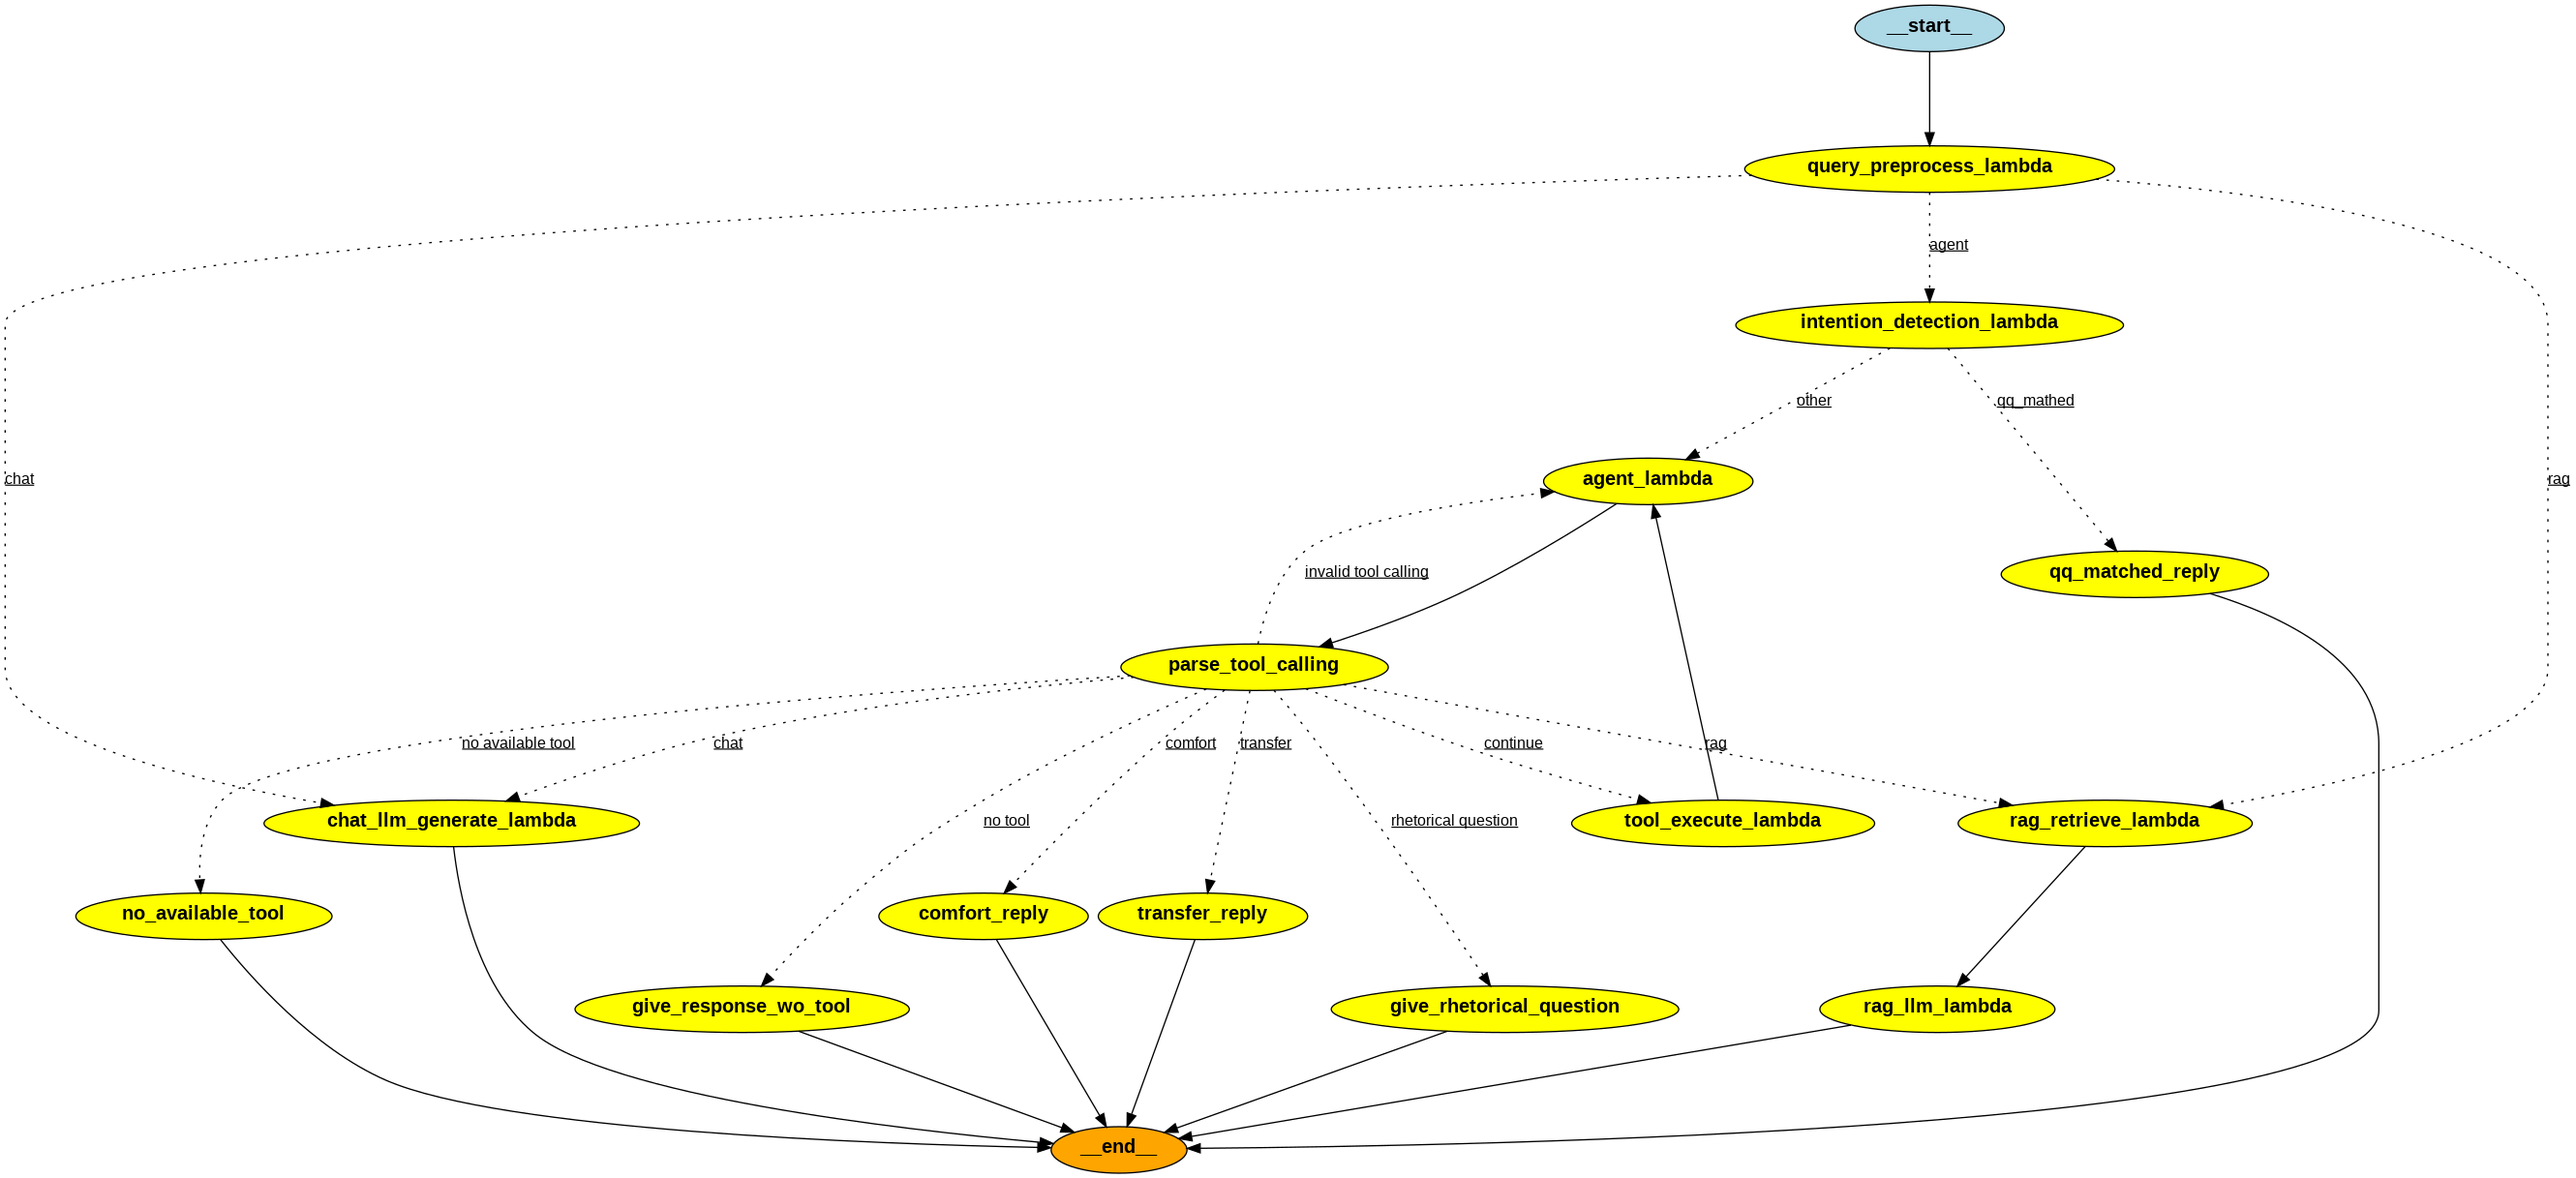
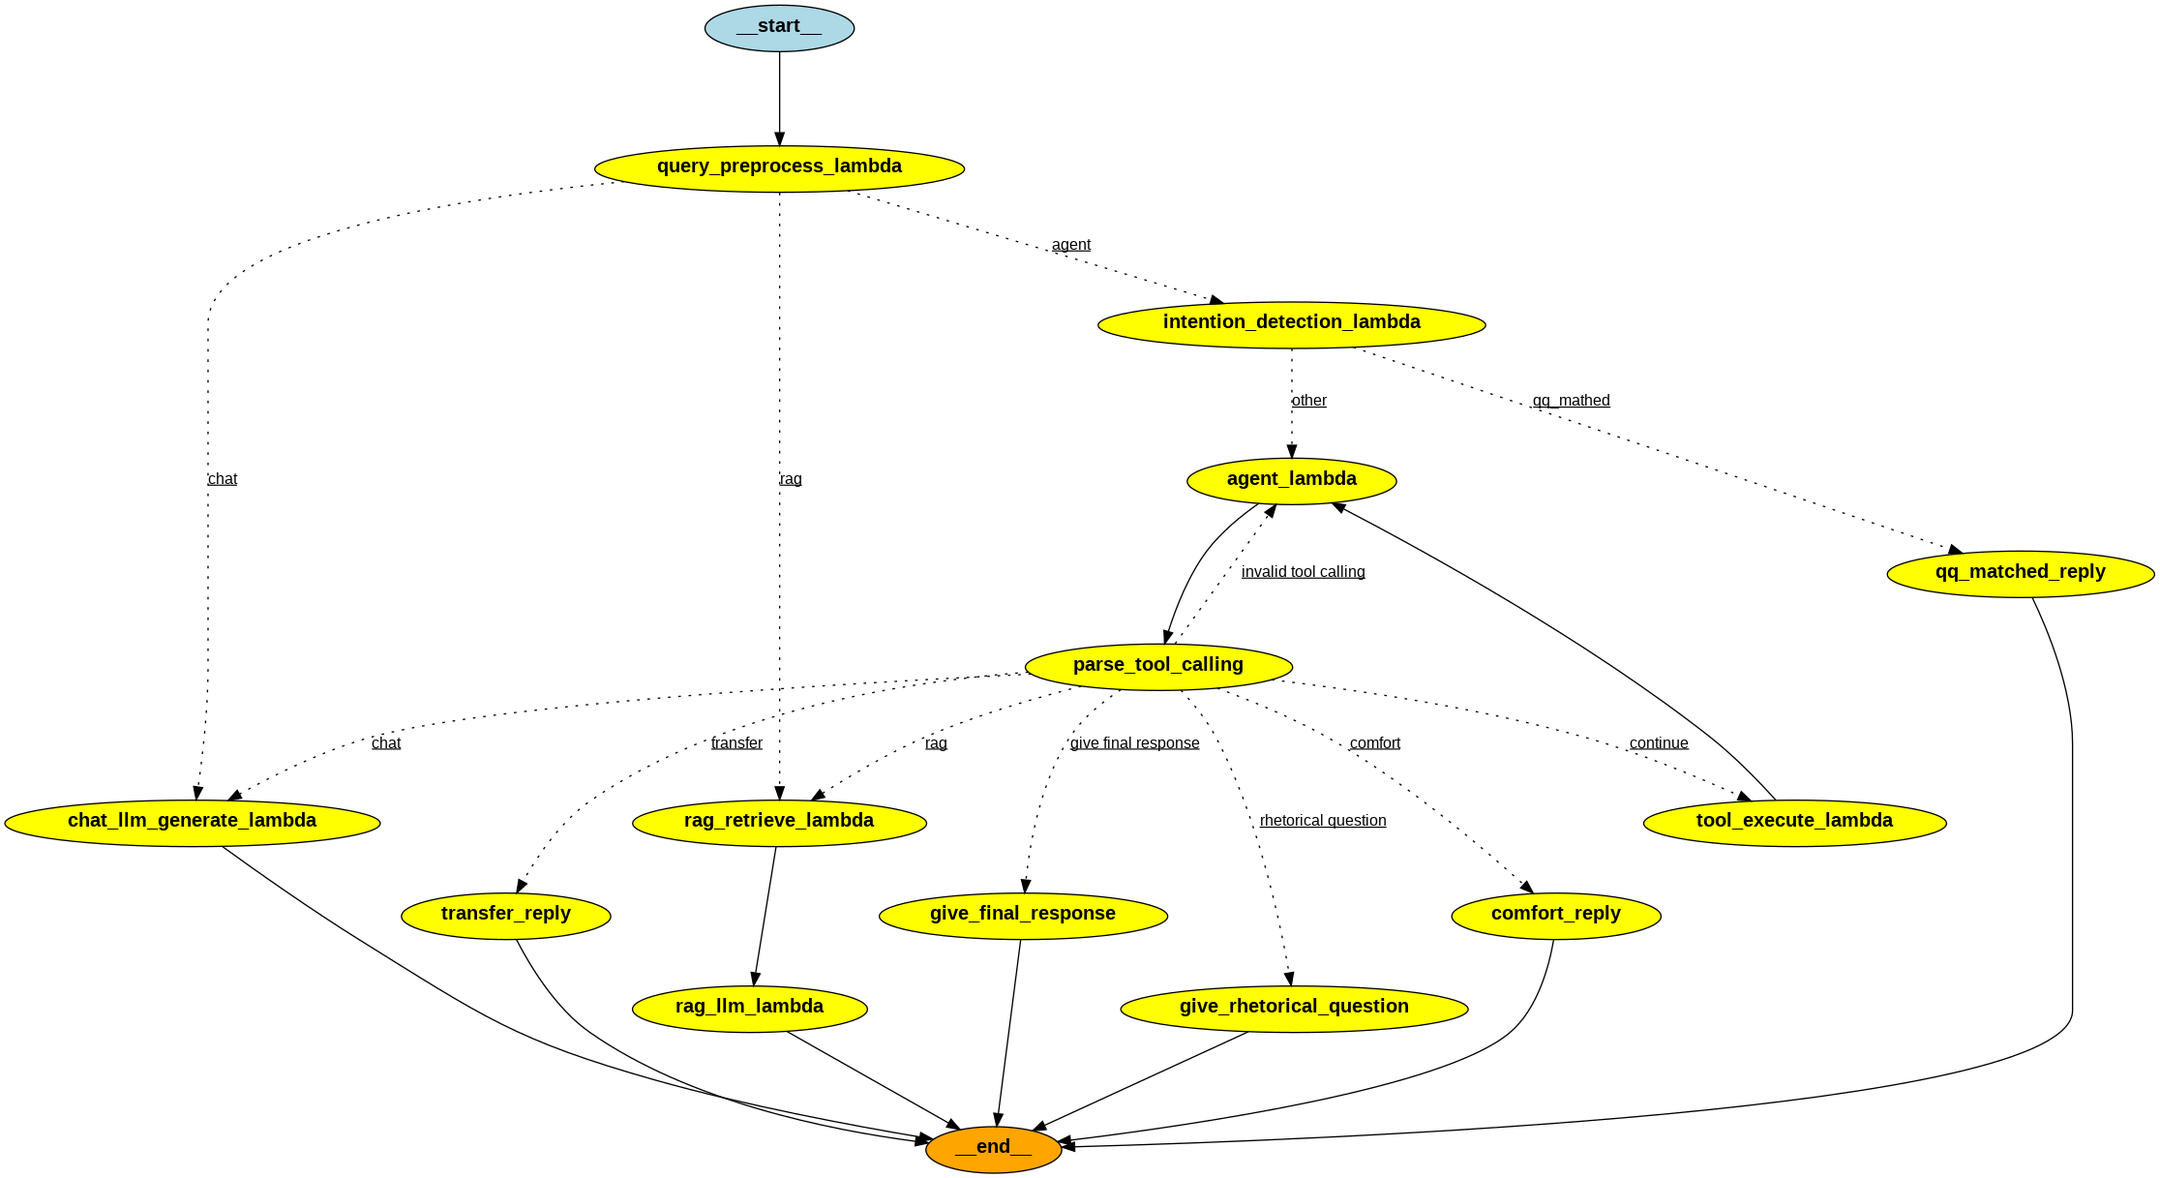
modify common entry

diff --git a/source/lambda/online/lambda_main/main_utils/online_entries/common_entry.py b/source/lambda/online/lambda_main/main_utils/online_entries/common_entry.py
@@ -122,7 +122,21 @@ def parse_tool_calling(state: ChatbotState):
             tools=state["current_agent_tools_def"],
         )
         send_trace(f"**tool_calls parsed:** \n{tool_calls}")
-        return {"parse_tool_calling_ok": True, "current_tool_calls": tool_calls}
+        if tool_calls:
+            state["extra_response"]['current_agent_intent_type'] = tool_calls[0]['name']
+        else:
+            return {
+                "parse_tool_calling_ok": False,
+                "agent_chat_history":[{
+                    "role": "user",
+                    "content": "当前没有解析到tool,请检查tool调用的格式是否正确，并重新输出某个tool的调用。注意调用tool的时候要加上<function_calls></function_calls>。如果你认为当前不需要调用其他工具，请直接调用“give_final_response”工具进行返回。"
+                }]
+            }
+
+        return {
+            "parse_tool_calling_ok": True,
+            "current_tool_calls": tool_calls,
+        }
     except (ToolNotExistError, ToolParameterNotExistError) as e:
         send_trace(f"**tool_calls parse failed:** \n{str(e)}")
         return {
@@ -255,24 +269,22 @@ def give_rhetorical_question(state: ChatbotState):
     return {"answer": recent_tool_calling["kwargs"]["question"]}
 
 
-def no_available_tool(state: ChatbotState):
+# def no_available_tool(state: ChatbotState):
+#     recent_tool_calling: list[dict] = state["current_tool_calls"][0]
+#     return {"answer": recent_tool_calling["kwargs"]["response"]}
+
+
+def give_final_response(state: ChatbotState):
     recent_tool_calling: list[dict] = state["current_tool_calls"][0]
     return {"answer": recent_tool_calling["kwargs"]["response"]}
 
 
-def give_tool_response(state: ChatbotState):
-    recent_tool_calling: list[dict] = state["current_tool_calls"][0]
-    return {"answer": recent_tool_calling["kwargs"]["response"]}
-
-
-def give_response_without_any_tool(state: ChatbotState):
-    chat_history = state["agent_chat_history"]
-    return {"answer": chat_history[-1]["content"]}
-
+# def give_response_without_any_tool(state: ChatbotState):
+#     chat_history = state["agent_chat_history"]
+#     return {"answer": chat_history[-1]["content"]}
 
 def qq_matched_reply(state: ChatbotState):
     return {"answer": state["answer"]}
-
 
 ################
 # define edges #
@@ -313,8 +325,8 @@ def agent_route(state: dict):
     if recent_tool_call["name"] == "give_rhetorical_question":
         return "rhetorical question"
 
-    if recent_tool_call["name"] == "no_available_tool":
-        return "no available tool"
+    if recent_tool_call["name"] == "give_final_response":
+        return "give final response"
 
     return "continue"
 
@@ -335,8 +347,8 @@ def build_graph():
     workflow.add_node("comfort_reply", comfort_reply)
     workflow.add_node("transfer_reply", transfer_reply)
     workflow.add_node("give_rhetorical_question", give_rhetorical_question)
-    workflow.add_node("no_available_tool", no_available_tool)
-    workflow.add_node("give_response_wo_tool", give_response_without_any_tool)
+    workflow.add_node("give_final_response", give_final_response)
+    # workflow.add_node("give_response_wo_tool", give_response_without_any_tool)
     workflow.add_node("rag_retrieve_lambda", rag_retrieve_lambda)
     workflow.add_node("rag_llm_lambda", rag_llm_lambda)
     workflow.add_node("qq_matched_reply", qq_matched_reply)
@@ -354,8 +366,8 @@ def build_graph():
     workflow.add_edge("transfer_reply", END)
     workflow.add_edge("chat_llm_generate_lambda", END)
     workflow.add_edge("give_rhetorical_question", END)
-    workflow.add_edge("no_available_tool", END)
-    workflow.add_edge("give_response_wo_tool", END)
+    workflow.add_edge("give_final_response", END)
+    # workflow.add_edge("give_response_wo_tool", END)
     workflow.add_edge("rag_retrieve_lambda", "rag_llm_lambda")
     workflow.add_edge("rag_llm_lambda", END)
     workflow.add_edge("qq_matched_reply", END)
@@ -383,14 +395,12 @@ def build_graph():
         agent_route,
         {
             "invalid tool calling": "agent_lambda",
-            "no tool": "give_response_wo_tool",
+            "give final response": "give_final_response",
             "rhetorical question": "give_rhetorical_question",
             "comfort": "comfort_reply",
             "transfer": "transfer_reply",
             "chat": "chat_llm_generate_lambda",
             "rag": "rag_retrieve_lambda",
-            "no available tool": "no_available_tool",
-            # "response": "give_tool_response",
             "continue": "tool_execute_lambda",
         },
     )

diff --git a/source/lambda/online/lambda_main/test/main_local_test.py b/source/lambda/online/lambda_main/test/main_local_test.py
@@ -33,7 +33,7 @@ websocket_utils.ws_client = DummyWebSocket()
 
 
 def generate_answer(query,
-                    entry_type="retail",
+                    entry_type="common",
                     stream=False,
                     session_id=None,
                     chatbot_config=None
@@ -136,9 +136,9 @@ def test(chatbot_mode="chat"):
     session_id = f"test_{time.time()}"
     
     generate_answer(
-        "麻烦同意下我的换货申请",
+        # "麻烦同意下我的换货申请",
         # "人工",
-        # "在吗",
+        "在吗",
         stream=True,
         session_id=session_id,
         chatbot_config=chatbot_config

diff --git a/source/lambda/online/lambda_main/main_utils/parse_config.py b/source/lambda/online/lambda_main/main_utils/parse_config.py
@@ -108,8 +108,8 @@ def parse_common_entry_config(chatbot_config):
     if "give_rhetorical_question" not in tools:
         tools.append("give_rhetorical_question")
 
-    if "no_available_tool" not in tools:
-        tools.append("no_available_tool")
+    if "give_final_response" not in tools:
+        tools.append("give_final_response")
 
     return chatbot_config
 
